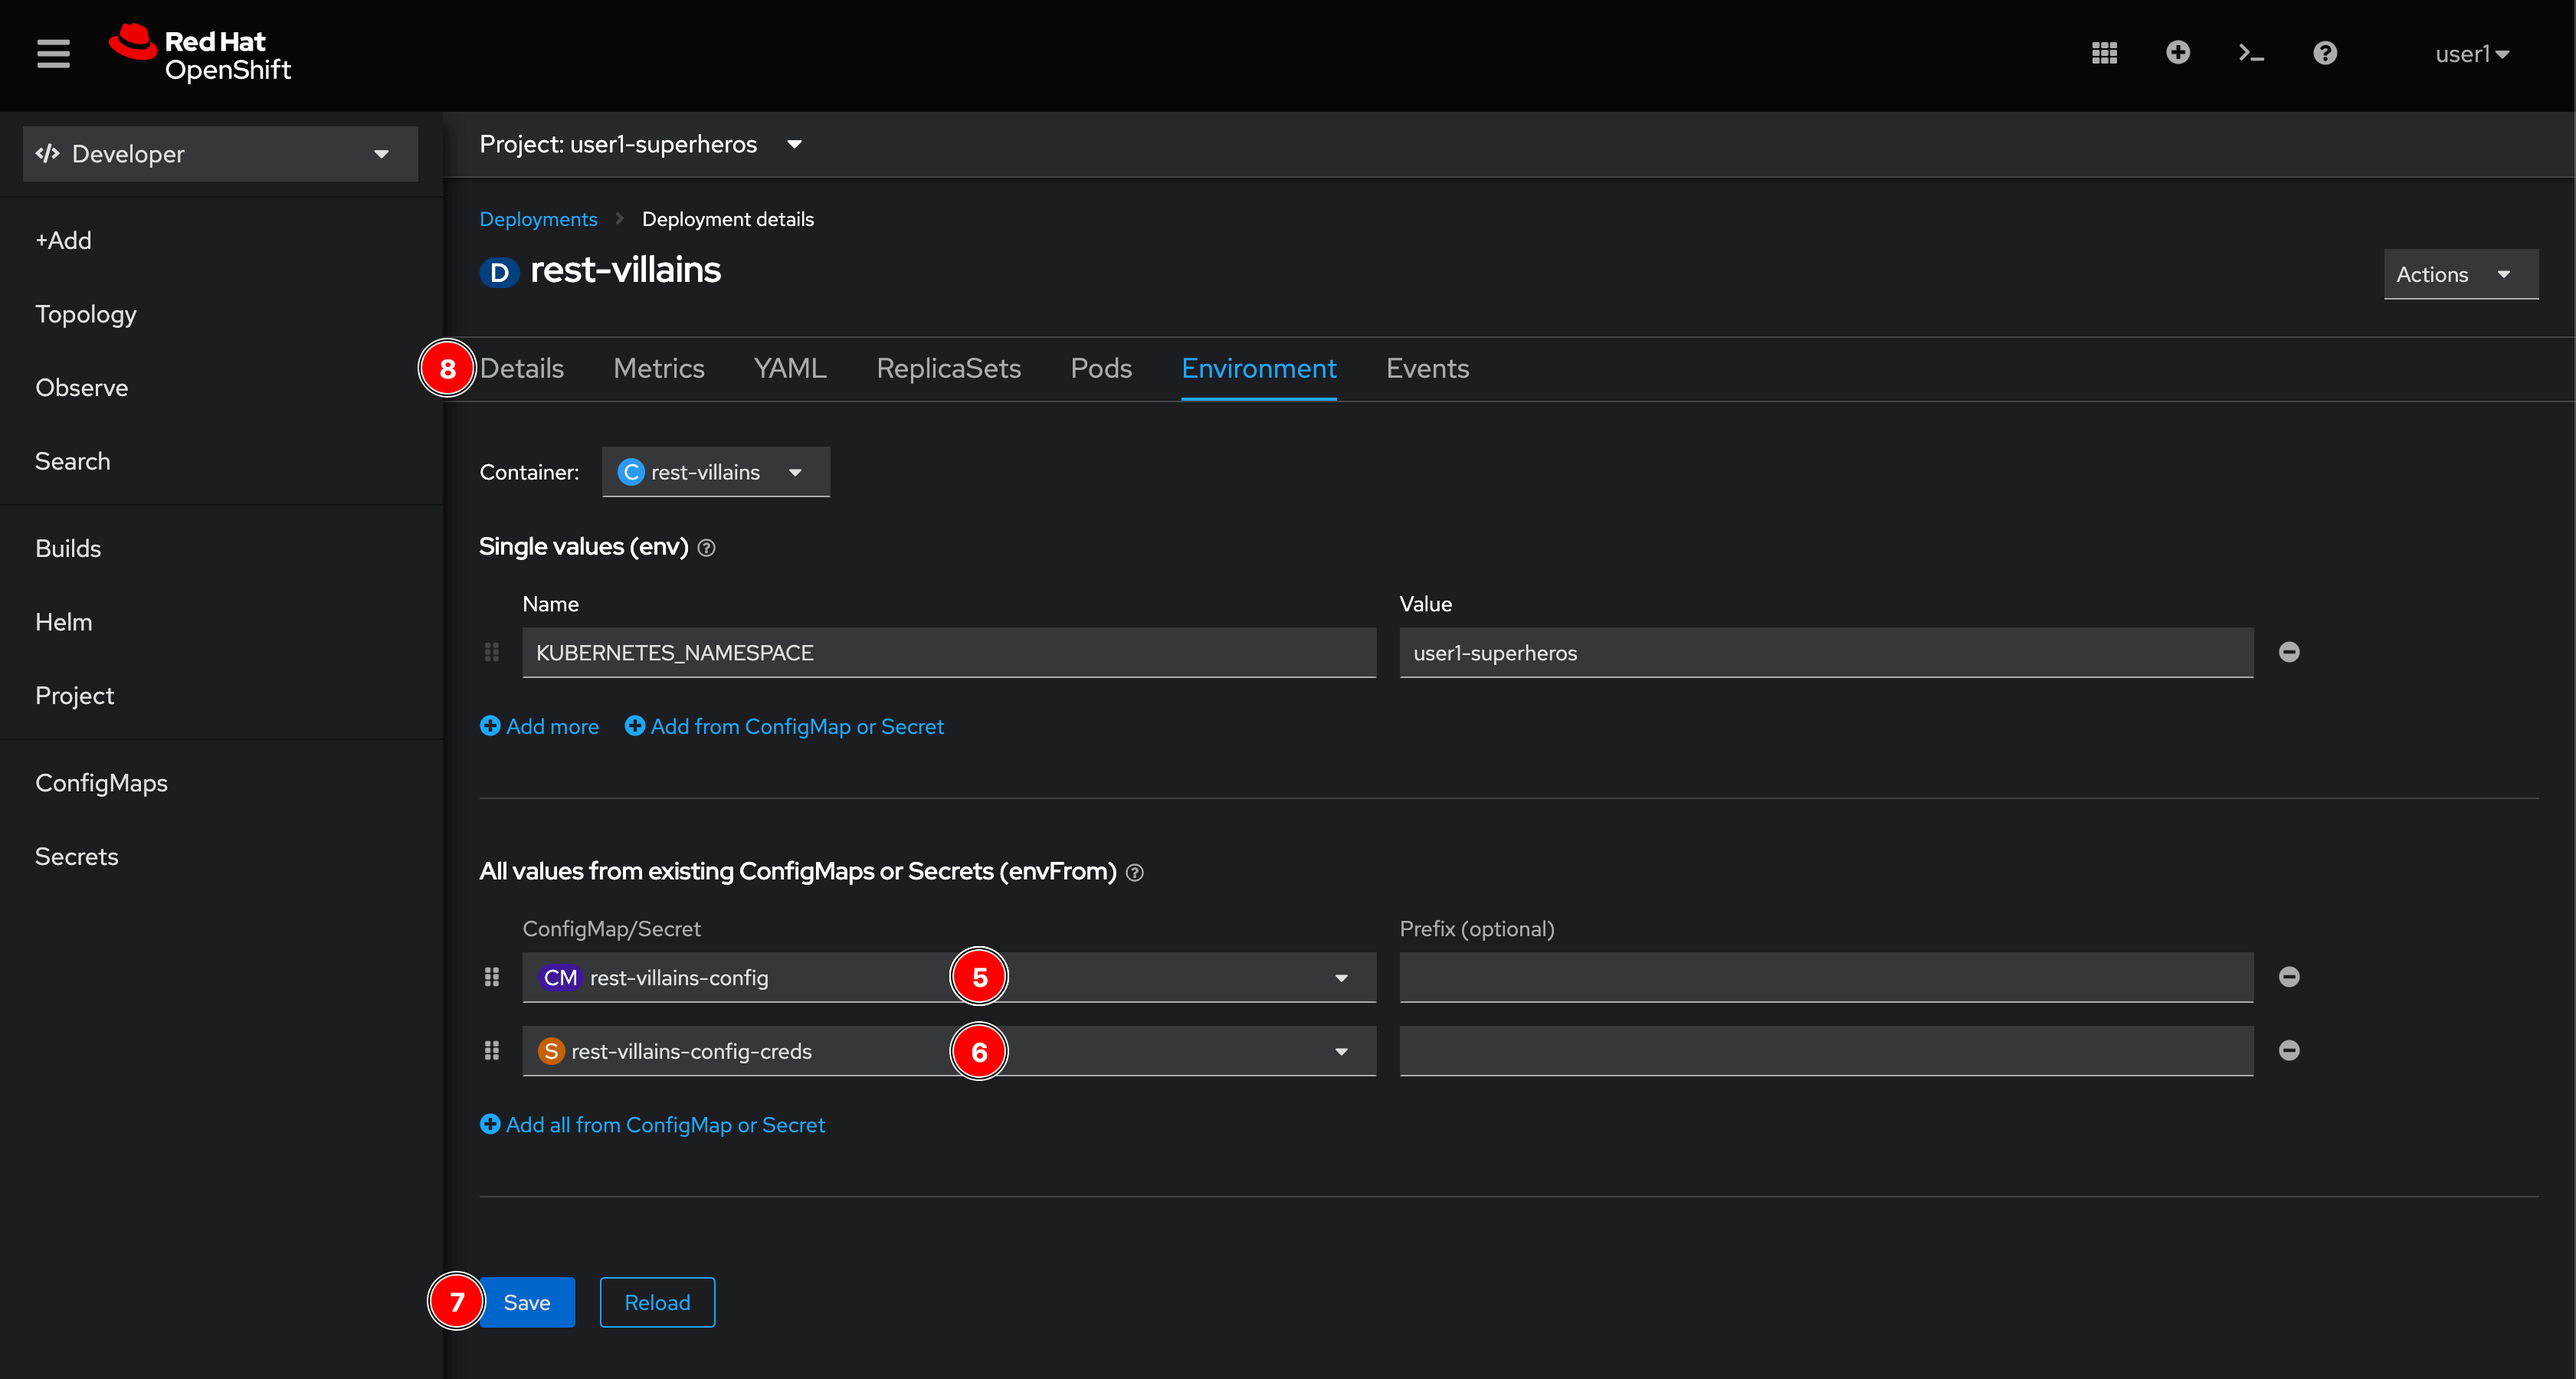
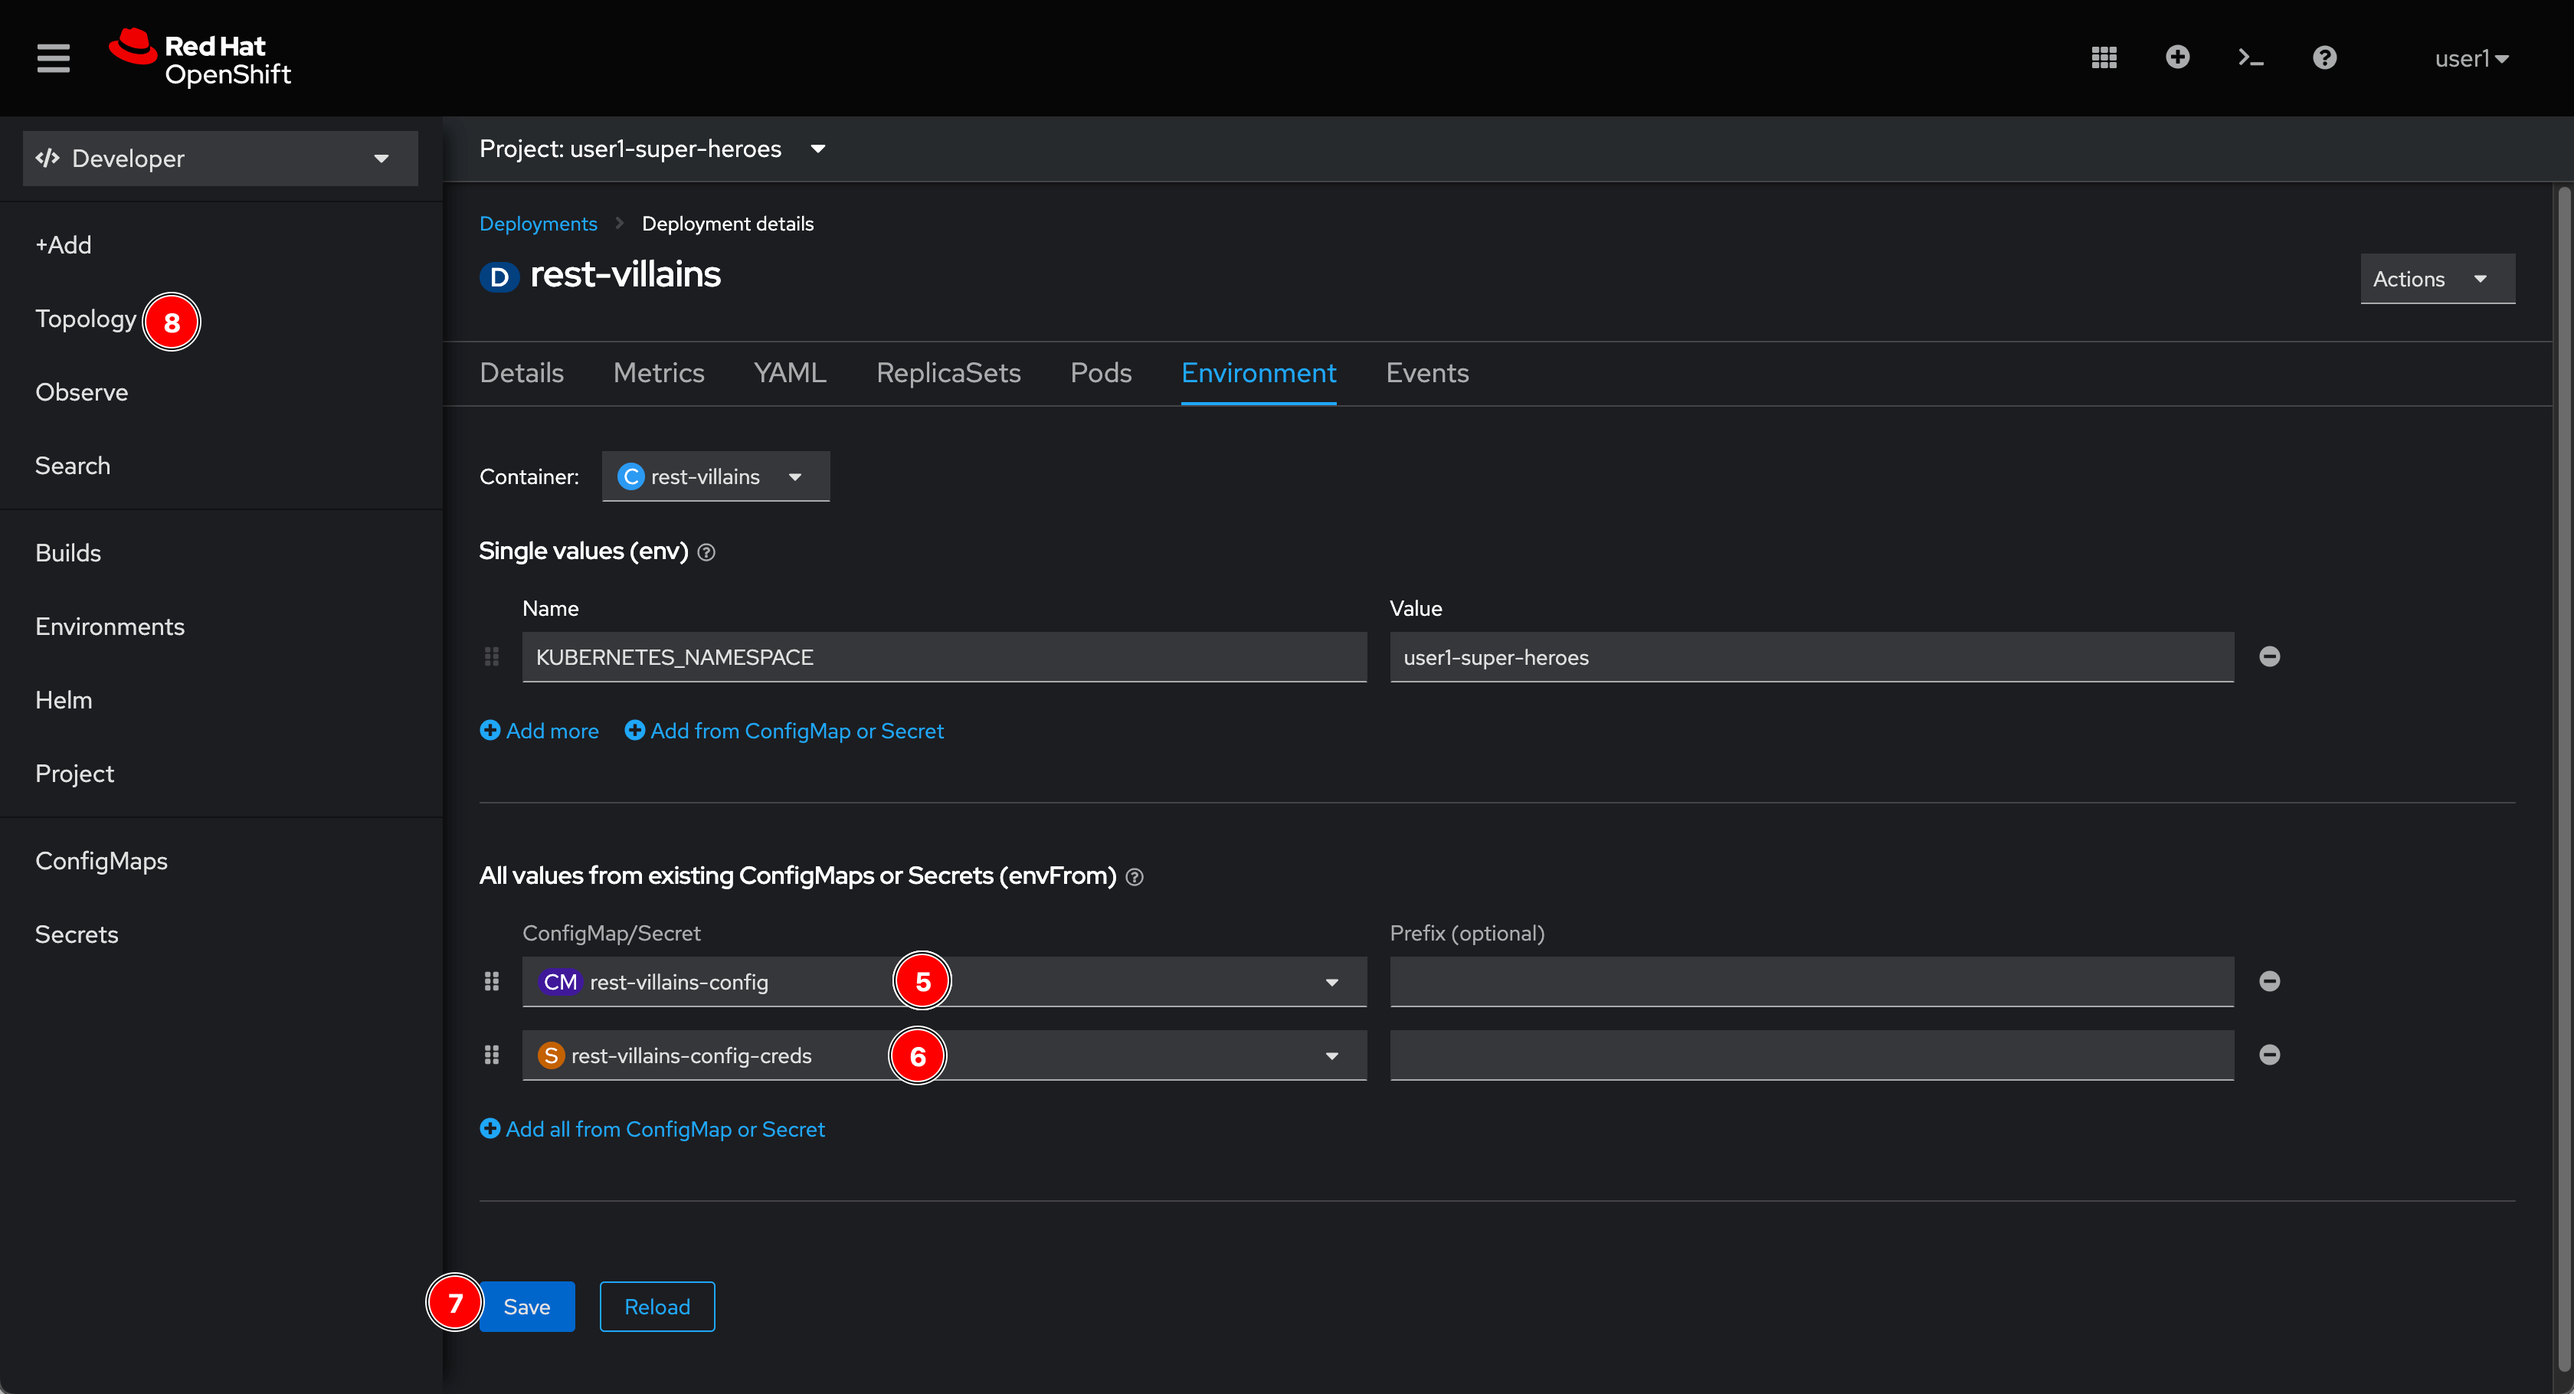
update lab guide

diff --git a/documents/application-deployment/villain-microservice.md b/documents/application-deployment/villain-microservice.md
@@ -79,7 +79,7 @@
 
    ![Deploy application container](image/villain-microservice/deploy-6.png)
 
-3. Scroll down to the bottom of the page, uncheck the **Create a route** checkbox, and then click **Health checks** link.
+3. Scroll down to the bottom of the page, select **8080** option for **Target port**, uncheck the **Create a route** checkbox, and then click **Health checks** link.
 
    ![Deploy application container](image/villain-microservice/deploy-7.png)
 
@@ -90,7 +90,7 @@
 5. Enter following inputs then click :heavy_check_mark: icon.
 
    - **Path:** `/q/health/ready`
-   - **Port:** `8084`
+   - **Port:** `8080`
    - **Period:** `30`
    - **Timeout:** `10`
 
@@ -103,7 +103,7 @@
 7. Enter following inputs then click :heavy_check_mark: icon.
 
    - **Path:** `/q/health/live`
-   - **Port:** `8084`
+   - **Port:** `8080`
    - **Period:** `30`
    - **Timeout:** `10`
 
@@ -125,7 +125,7 @@
 10. Enter following environment variable. Then click **Resource limits** link.
 
     - **Name:** `KUBERNETES_NAMESPACE`
-    - **Value:** `userX-superheroes` where `X` is your user number.
+    - **Value:** `userX-super-heroes` where `X` is your user number.
 
     ![Deploy application container](image/villain-microservice/deploy-14.png)
 
@@ -142,7 +142,7 @@
 
 ## Add application configurations in ConfigMap and Secret objects to application container
 
-1. Click on **rest-villains** entity in view area. A panel will show up, then click **rest-villains** link.
+1. Click on **rest-villains** entity in view area, a panel will show on right hand side. Notice that a build process starts automatically to build source code and container image (you can click **View logs** to see build logs). By the way, just let it run in background for now. Then click **rest-villains** link.
 
    ![Deploy application container](image/villain-microservice/deploy-17.png)
 
@@ -150,29 +150,11 @@
 
    ![Deploy application container](image/villain-microservice/deploy-18.png)
 
-3. Select **rest-villains-config** ConfigMap and **rest-villains-config-creds** Secret objects, then click **Save** button. And then go to **Details** tab.
+3. Select **rest-villains-config** ConfigMap and **rest-villains-config-creds** Secret objects, then click **Save** button. And then go to **Topology** menu.
 
    ![Deploy application container](image/villain-microservice/deploy-19.png)
 
-4. Scroll down to **Containers** section. You'll see that, by default, OpenShift Build configures network port **8080** (for HTTP connection) and **8443** (for HTTPS connection) for application container pod automatically.
-
-   In general, these are default network port numbers for most of Java framework e.g. Spring Boot, Quarkus, Micronaut, Dropwizard.
-
-   However, our **rest-villains** microservice is configured to use only port **8084** so we need to update **rest-villains** Deployment object.
-
-   ![Deploy application container](image/villain-microservice/deploy-20.png)
-
-## Update network port to be exposed for application container
-
-1. Go to **YAML** tab scroll down until you see part of YAML as a screenshot below.
-
-   ![Deploy application container](image/villain-microservice/deploy-21.png)
-
-2. Edit the YAML like this then click **Save** button. Then go to **Topology** menu.
-
-   ![Deploy application container](image/villain-microservice/deploy-22.png)
-
-3. Wait for a monent then hover mouse pointer over the **rest-villains** entity, a bubble should show up and say _1 Running_ which means there is 1 pod running.
+4. Wait for a while until you see dark blue ring surrounds the **rest-villains** entity. Hover mouse pointer over it, a bubble should show up and say _1 Running_ which means there is 1 pod running.
 
    ![Deploy application container](image/villain-microservice/deploy-23.png)
 
